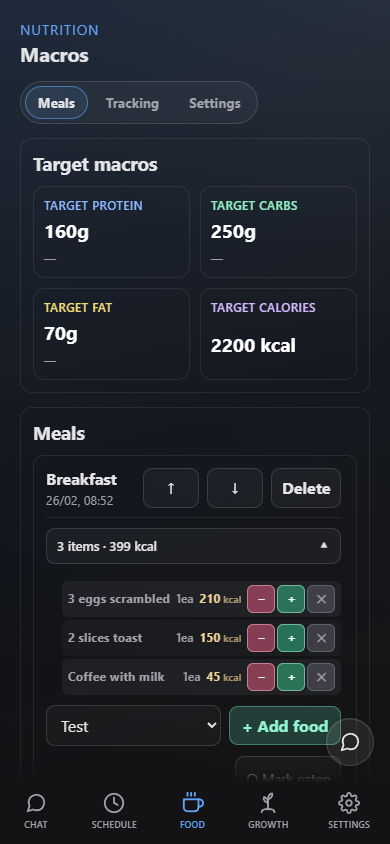
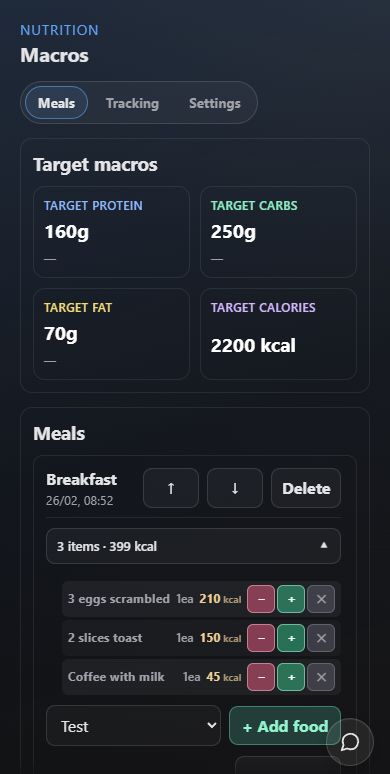
fix(web): crop tab bar from previews, kill snap animation on locked overlay

diff --git a/apps/web/src/index.css b/apps/web/src/index.css
@@ -8935,11 +8935,15 @@ label small.muted {
    LOCKED FEATURE OVERLAY — blurred background with lock icon + upgrade CTA
    ══════════════════════════════════════════════════════════════════════════ */
 
-/* When locked overlay is present, disable scrolling and gradient mask */
+/* When locked overlay is present, disable scrolling, gradient mask, and tab animation */
 .tab-content-area:has(.locked-feature-overlay) {
   overflow: hidden !important;
   -webkit-mask-image: none !important;
   mask-image: none !important;
+}
+
+.tab-panel:has(.locked-feature-overlay) {
+  animation: none !important;
 }
 
 .locked-feature-overlay {
@@ -8989,7 +8993,8 @@ label small.muted {
   width: 100%;
   height: 100%;
   object-fit: cover;
-  object-position: center center;
+  /* Anchor to top so the tab bar at the bottom of the screenshot gets cropped */
+  object-position: center top;
   opacity: 0.22;
   filter: blur(4px);
   pointer-events: none;
